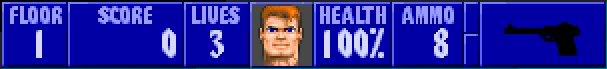
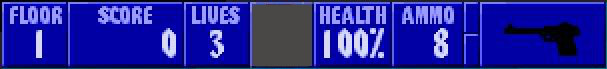
Add face reactions

diff --git a/src/javascript/main/engine/FaceReaction.js b/src/javascript/main/engine/FaceReaction.js
@@ -1,0 +1,65 @@
+/**
+ * Prototype responsible to manage the hero's face reactions.
+ *
+ * @param fn contextFunction
+ *
+ * @author madureira
+ *
+ */
+App.define('FaceReaction', 'engine', (function(fn) {
+    'use strict';
+
+    var FACE_IMG = 'reactions.png',
+        SPRITE_PATH = App.Properties.statusbarPath,
+        FRAME_TRANSITION_TIME = 500,
+        frames = [
+            'face01',
+            'face02',
+            'face03',
+            'face02'
+        ];
+
+    fn = function($selector) {
+        console.log('[FaceReaction] Creating the face reaction');
+        this.$ = $selector;
+        this.reactions = _createReactionsImage(this.$);
+        _startAnimate(this);
+    };
+
+    fn.prototype.faces = function() {
+        return this.reactions;
+    };
+
+    function _startAnimate(self) {
+
+        var interval = FRAME_TRANSITION_TIME*frames.length;
+        for(var x=0; x < 10; x++) {
+            _animate(self, interval * x);
+        }
+    }
+
+    function _animate(self, time) {
+        var size = frames.length;
+        setTimeout(function() {
+            for(var i = 0; i < size; i++) {
+                _changeFace(self, frames[i], FRAME_TRANSITION_TIME*i);
+            }
+        }, time);
+    }
+
+    function _changeFace(self, face, time) {
+        setTimeout(function() {
+            self.reactions.className = face;
+        }, time);
+    }
+
+    function _createReactionsImage($selector) {
+        var div = $selector.createTag('div');
+        div.id = 'reactions';
+        div.className = 'face01';
+        return div;
+    }
+
+    return fn;
+
+}));

diff --git a/src/stylesheet/main/less/views/statusbar.less b/src/stylesheet/main/less/views/statusbar.less
@@ -1,7 +1,8 @@
 #status-bar {
     bottom: 0;
     position: absolute;
-    width: 100%
+    width: 100%;
+    z-index: 2;
 }
 
 #weapon {
@@ -9,4 +10,35 @@
     width: 400px;
     bottom: 80px;
     margin: 0 auto;
+    z-index: 1;
+}
+
+@face-file: "/statusbar/reactions.png";
+@face-url: "@{path-to-images}@{face-file}";
+
+#reactions {
+    position: absolute;
+    display: block;
+    width: 66px;
+    height: 76px;
+    z-index: 3;
+    left: 301px;
+    image-rendering: pixelated;
+    background-image: url(@face-url);
+    background-repeat: no-repeat;
+    background-size: 500px;
+    //border: 1px solid red;
+}
+
+
+.face01 {
+    background-position: 1px -2px;
+}
+
+.face02 {
+    background-position: -62px -2px;
+}
+
+.face03 {
+    background-position: -125px -2px;
 }

diff --git a/src/javascript/main/engine/StatusBar.js b/src/javascript/main/engine/StatusBar.js
@@ -17,6 +17,7 @@ App.define('StatusBar', 'engine', (function(fn) {
         console.log('[StatusBar] Creating the status bar');
         this.$selector = $selector;
         this.weapon = new App.engine.Weapon($selector);
+        this.reactions = new App.engine.FaceReaction($selector);
         this.init();
     };
 
@@ -26,6 +27,7 @@ App.define('StatusBar', 'engine', (function(fn) {
 
         $screen.appendChild(this.weapon.default());
         $screen.appendChild(statusBar);
+        $screen.appendChild(this.reactions.faces());
     };
 
     fn.prototype.update = function() {
